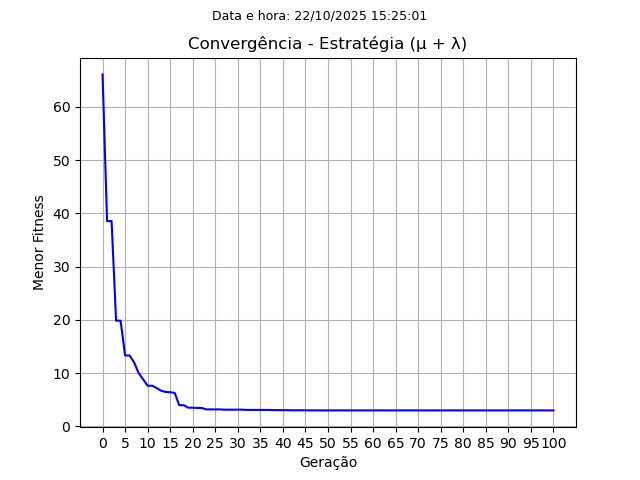
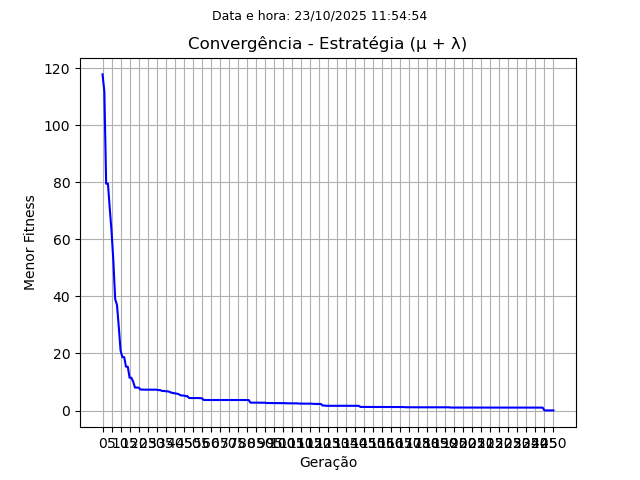
feat-Configure parameters

diff --git a/utils/config.py b/utils/config.py
@@ -3,18 +3,18 @@ Arquivo de configuração do projeto de otimização (DEAP + Rastrigin)
 """
 
 # ====== PARÂMETROS DO AG ======
-POP_SIZE = 5         # Tamanho da população
-N_GER = 100          # Número de gerações
-PROB_CX = 0.7        # Probabilidade de cruzamento
-PROB_MT = 0.2        # Probabilidade de mutação
-SEED = 42            # Semente aleatória (para reprodutibilidade)
-TRIALS = 20          # Número de rodadas do algoritmo
+POP_SIZE = 100        # Tamanho da população
+N_GER = 250           # Número de gerações
+PROB_CX = 0.8         # Probabilidade de cruzamento
+PROB_MT = 0.1         # Probabilidade de mutação
+SEED = 42             # Semente aleatória (para reprodutibilidade)
+TRIALS = 30           # Número de rodadas do algoritmo
 
 # ======= PARÂMETROS DO PROBLEMA ========
-IND_SIZE = 5        # Dimensão de indivíduo (número de variáveis)
-BOUND_LOW = -5.12   # Limite inferior
-BOUND_UP = 5.12     # LImite superios
+IND_SIZE = 10         # Dimensão de indivíduo (número de variáveis)
+BOUND_LOW = -5.12     # Limite inferior
+BOUND_UP = 5.12       # LImite superios
 
 # ======= PARÂMETROS μ e λ ========
-MU = 50             # Numero de pais
-_LAMBDA = 100       # Numero de filhos
+MU = 150              # Numero de pais
+_LAMBDA = 200         # Numero de filhos
